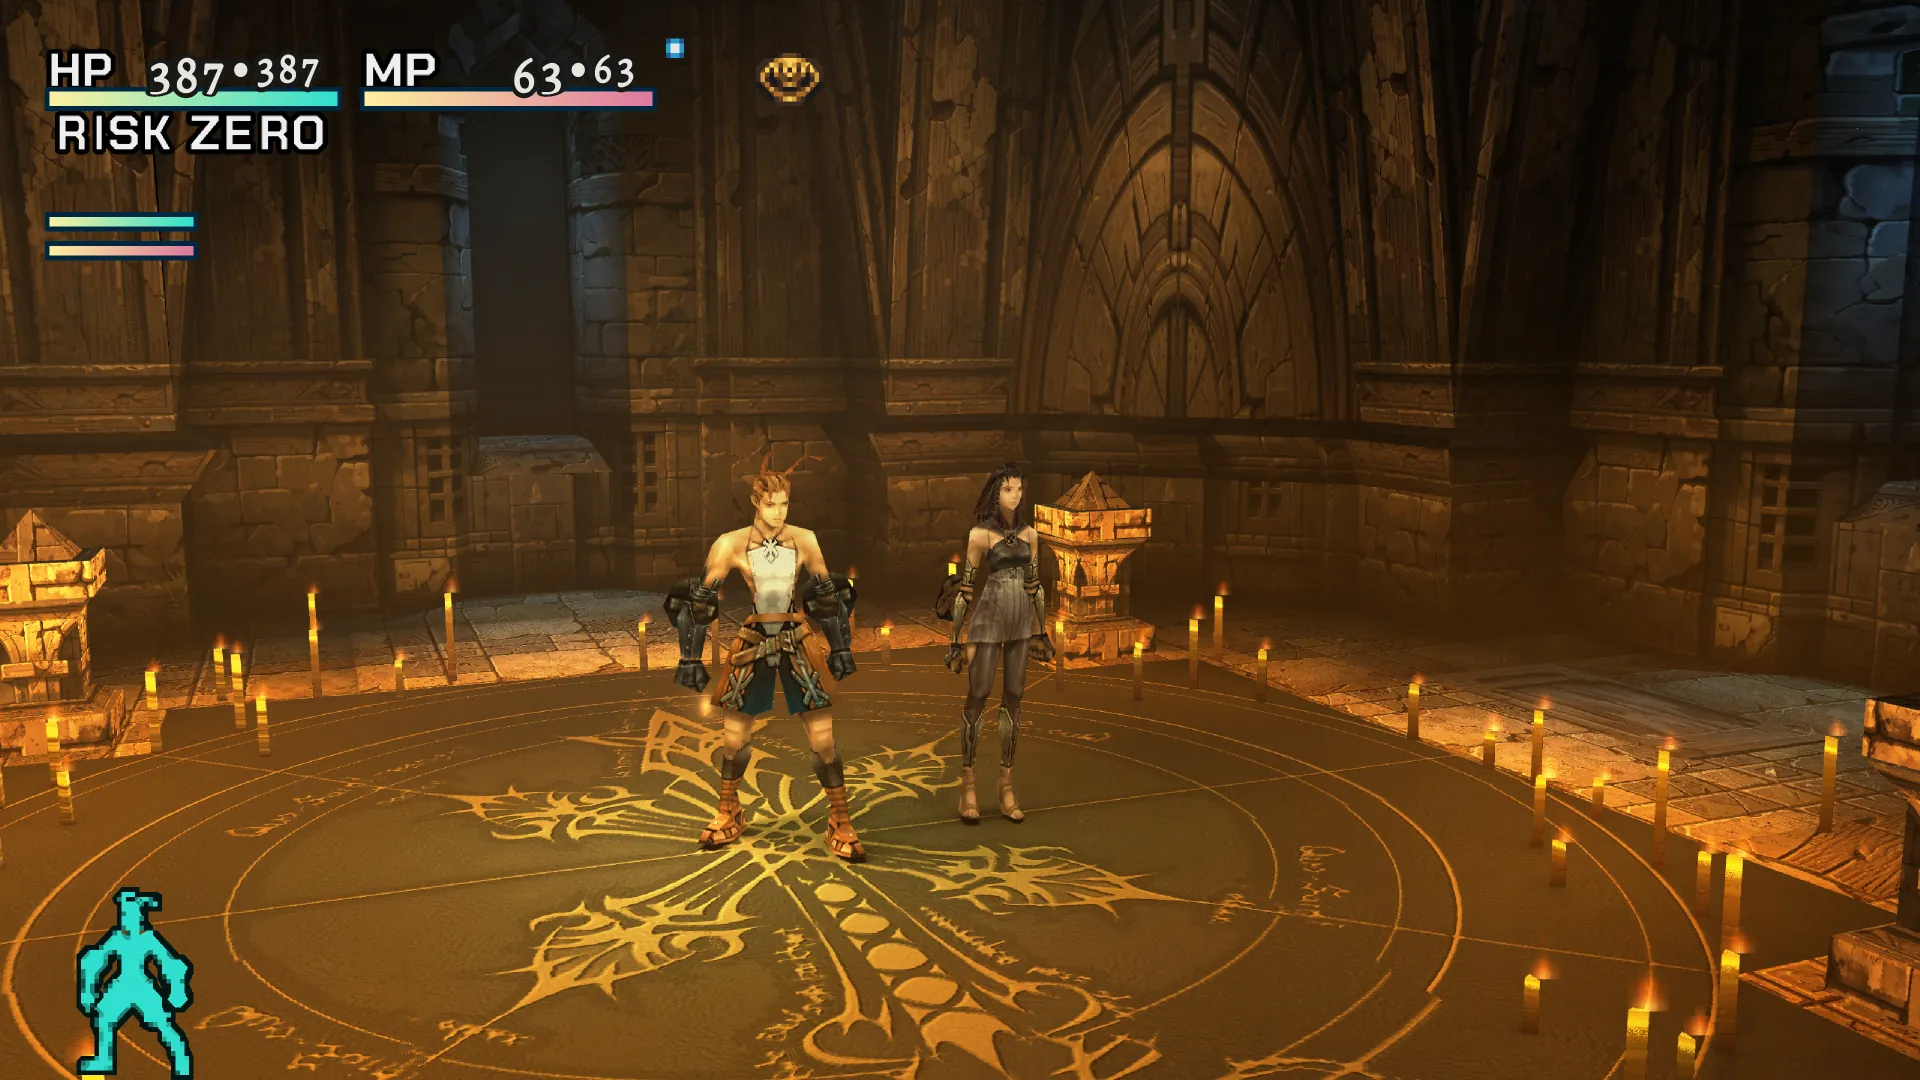
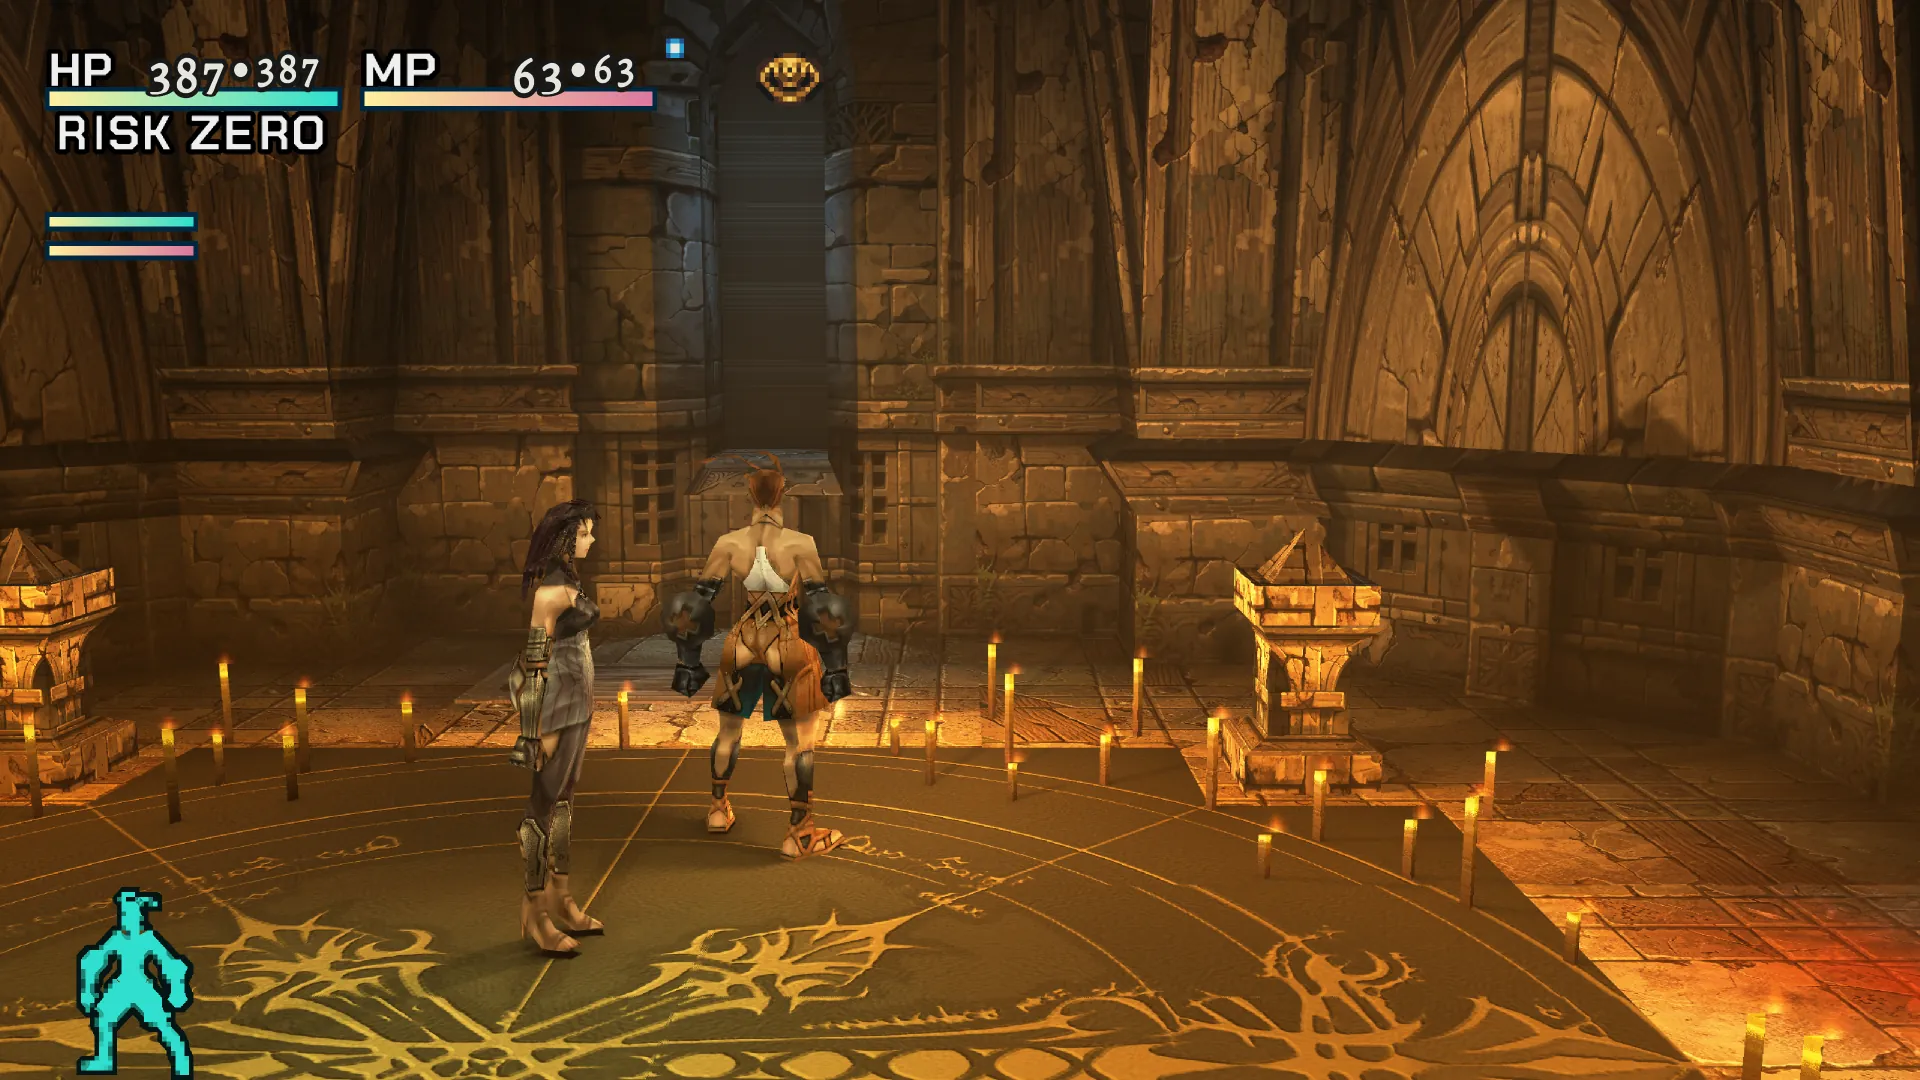
Show the over-the-shoulder stills from behind Ashley
The gold circle and Cathedral stills had Ashley facing the camera. Retaken
after walking forward from the warp spot, which clears the walls and turns
Ashley away from the camera.

diff --git a/index.html b/index.html
@@ -138,9 +138,9 @@
       <img src="img/cam-ots.webp" data-label="Over the shoulder" width="1920" height="1080" loading="lazy" alt="The same fight from low behind Ashley, with the axe raised and the wraith close ahead.">
     </figure>
     <div class="grid after">
-      <figure><a href="img/cam-circle.webp"><img src="img/cam-circle.webp" width="1920" height="1080" loading="lazy" alt="Ashley and Merlose on the golden circle, with candles and carved walls rising behind them."></a><figcaption>The gold circle, at floor level</figcaption></figure>
+      <figure><a href="img/cam-circle.webp"><img src="img/cam-circle.webp" width="1920" height="1080" loading="lazy" alt="From behind Ashley on the golden circle, with Merlose alongside and a carved arch rising ahead."></a><figcaption>On the gold circle, with Merlose alongside</figcaption></figure>
       <figure><a href="img/cam-street.webp"><img src="img/cam-street.webp" width="1920" height="1080" loading="lazy" alt="Close behind Ashley in a sunlit stone street, facing a skeleton by a pillar."></a><figcaption>The Undercity, close behind Ashley</figcaption></figure>
-      <figure><a href="img/cam-cathedral.webp"><img src="img/cam-cathedral.webp" width="1920" height="1080" loading="lazy" alt="Ashley and Merlose in a lit cathedral room with tiled floors and carved stone."></a><figcaption>The Cathedral</figcaption></figure>
+      <figure><a href="img/cam-cathedral.webp"><img src="img/cam-cathedral.webp" width="1920" height="1080" loading="lazy" alt="From behind Ashley on the tiled floor of a cathedral room, beside carved stone."></a><figcaption>The Cathedral</figcaption></figure>
     </div>
   </article>
 
